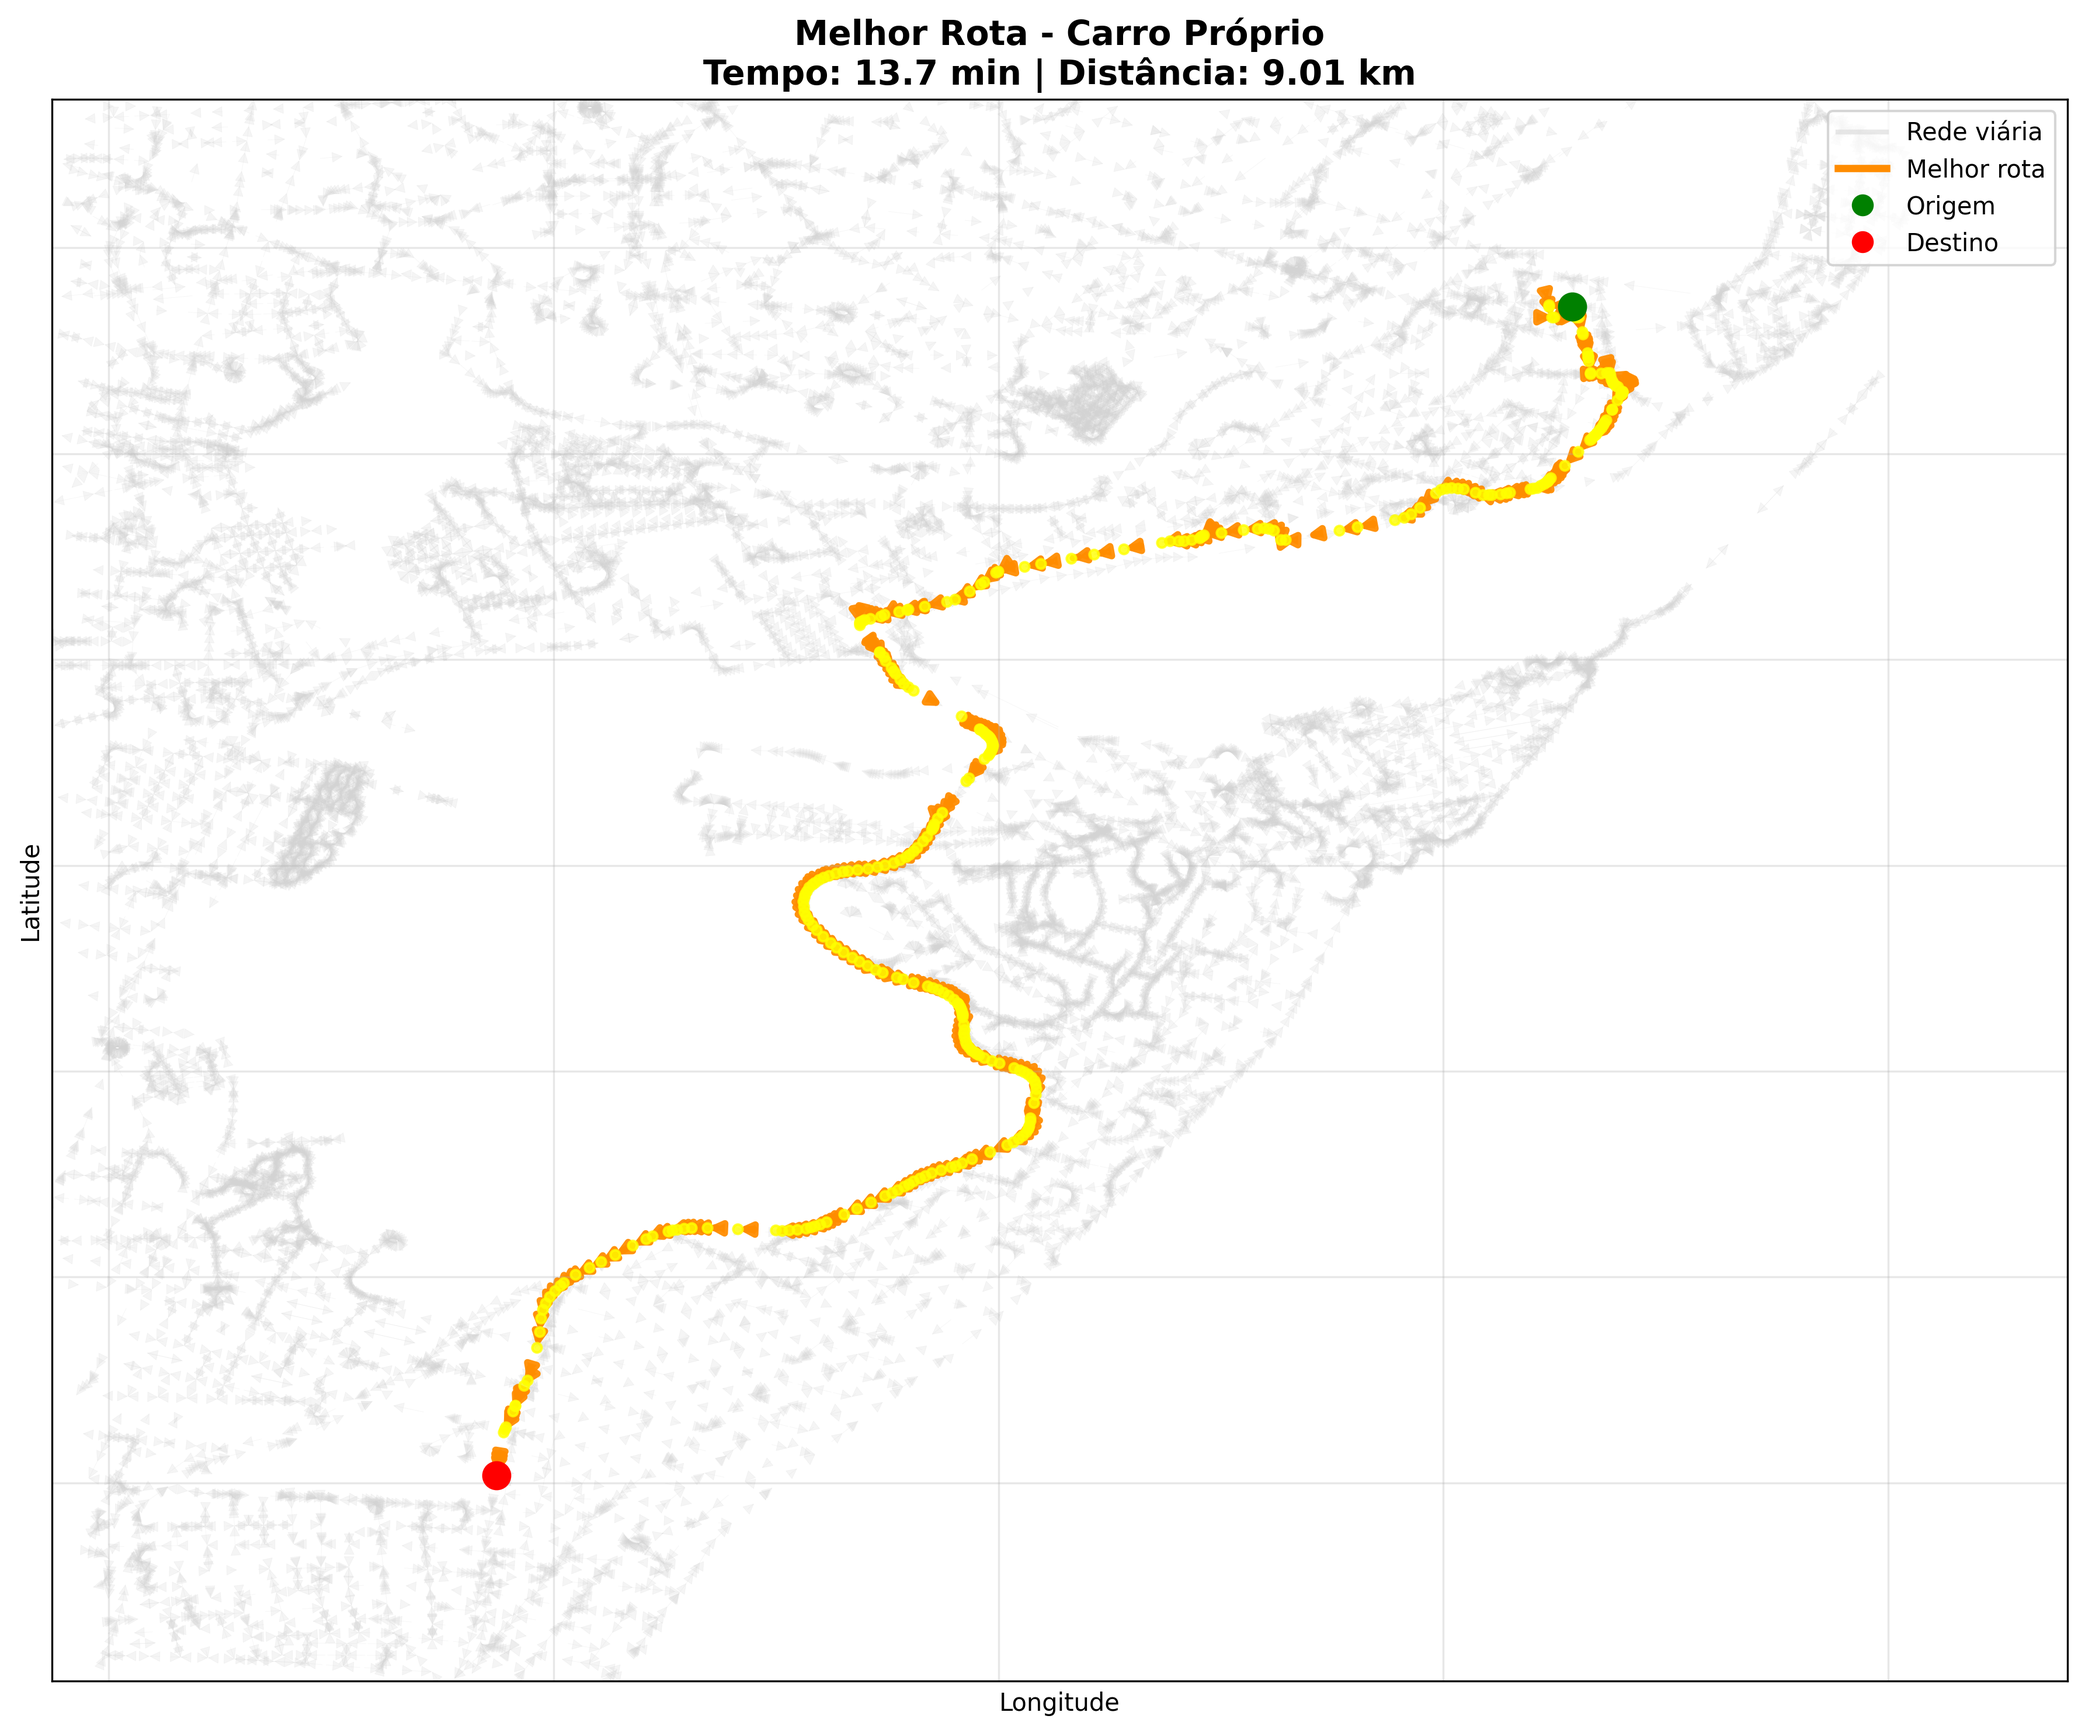
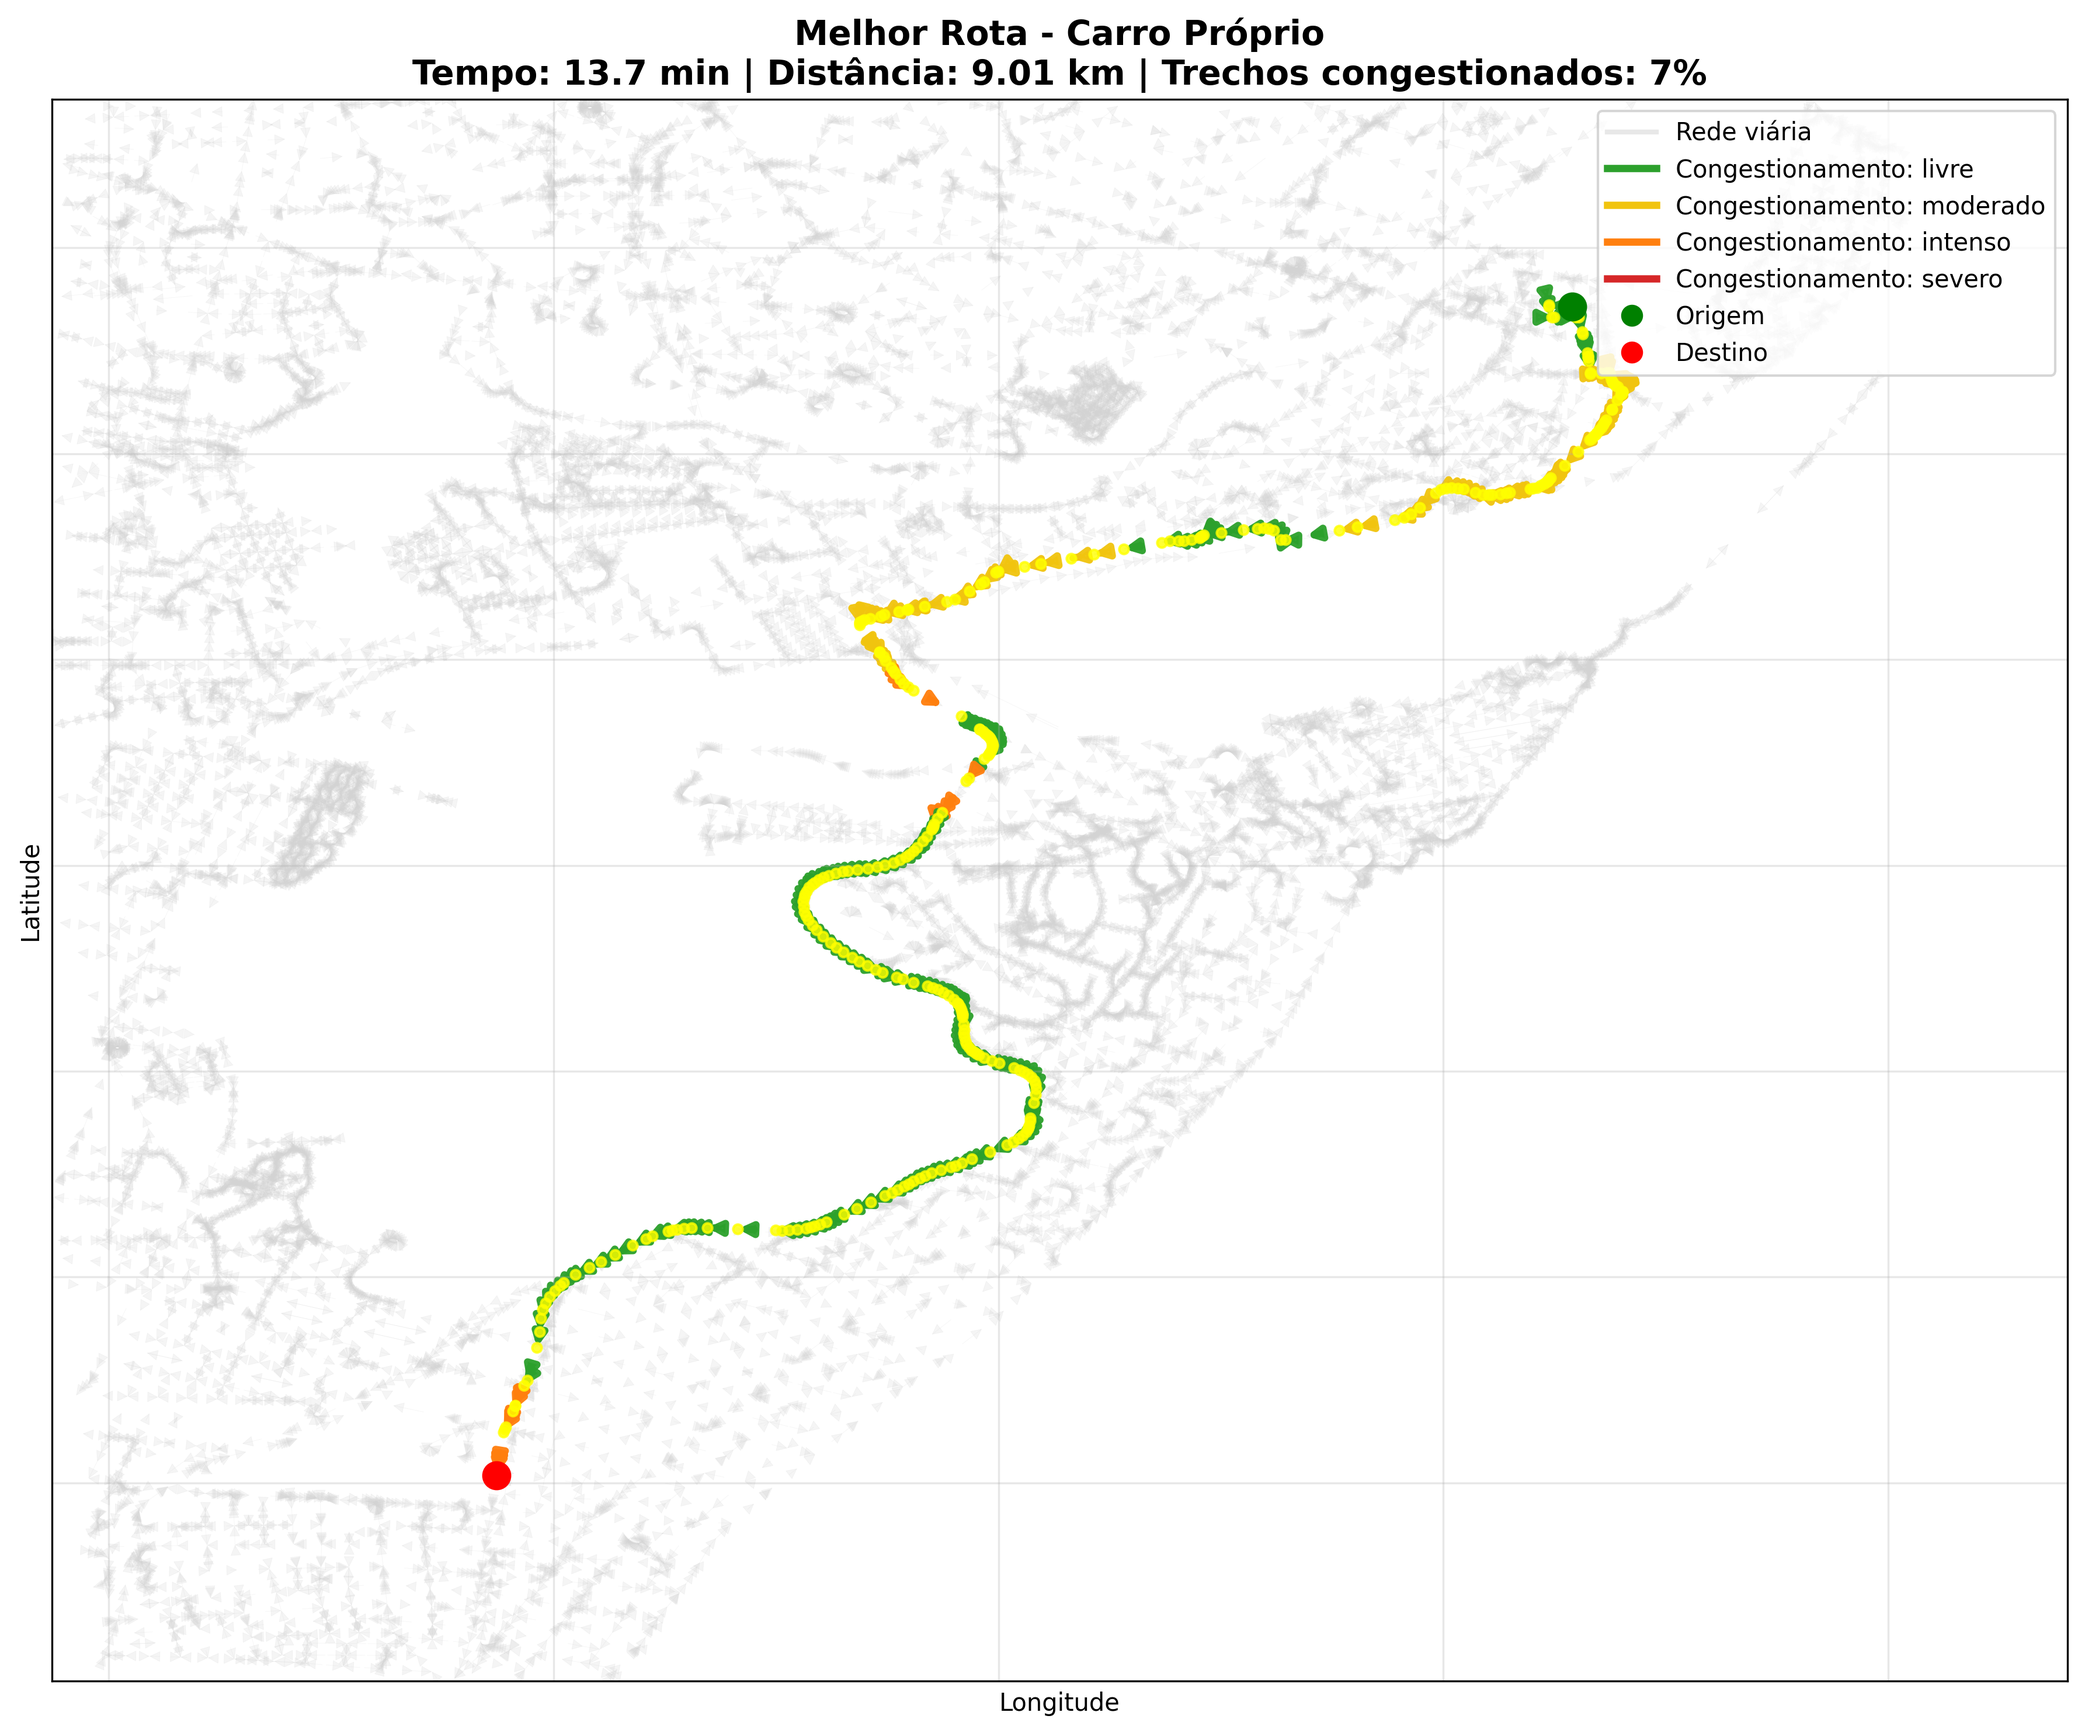
feat: adicionando percentual de congestionamento

diff --git a/graph/graph.py b/graph/graph.py
@@ -19,6 +19,81 @@ from best_routes import build_road_graph, generate_three_best_routes
 GRAPH_PATH = BASE_DIR / 'transport_graph.gpickle'
 BEST_ROUTES_PATH = BASE_DIR / 'dados_coletados' / 'best_routes.json'
 
+CONGESTION_COLORS = {
+    'livre': '#2ca02c',
+    'moderado': '#f1c40f',
+    'intenso': '#ff7f0e',
+    'severo': '#d62728',
+}
+
+
+def _edge_speed_ms(edge_attrs):
+    dist = edge_attrs.get('distance_m', 0.0)
+    time_s = edge_attrs.get('time_s', 0.0)
+    if not time_s or time_s <= 0:
+        return 0.0
+    return dist / time_s
+
+
+def _road_free_flow_speed_ms(edge_attrs, road_modal):
+    road_type = str(edge_attrs.get('road_type', '')).lower()
+    base_by_type = {
+        'trunk': 16.7,
+        'primary': 13.9,
+        'secondary': 11.1,
+        'tertiary': 9.7,
+        'residential': 8.3,
+    }
+    speed = base_by_type.get(road_type, 10.0)
+    if road_modal == 'moto':
+        speed *= 1.1
+    return speed
+
+
+def _public_free_flow_speed_ms(edge_attrs):
+    mode = edge_attrs.get('mode', 'unknown')
+    return {
+        'walk': 1.4,
+        'bus': 8.0,
+        'rail': 15.0,
+    }.get(mode, 5.0)
+
+
+def _congestion_level(speed_ratio):
+    # speed_ratio = velocidade observada / velocidade livre
+    if speed_ratio >= 0.85:
+        return 'livre'
+    if speed_ratio >= 0.65:
+        return 'moderado'
+    if speed_ratio >= 0.40:
+        return 'intenso'
+    return 'severo'
+
+
+def _road_edge_congestion(edge_attrs, road_modal):
+    observed = _edge_speed_ms(edge_attrs)
+    free_flow = _road_free_flow_speed_ms(edge_attrs, road_modal)
+    ratio = observed / free_flow if free_flow > 0 else 0.0
+    ratio = max(0.0, min(1.2, ratio))
+    level = _congestion_level(ratio)
+    return level, CONGESTION_COLORS[level], ratio
+
+
+def _public_edge_congestion(edge_attrs):
+    observed = _edge_speed_ms(edge_attrs)
+    free_flow = _public_free_flow_speed_ms(edge_attrs)
+    ratio = observed / free_flow if free_flow > 0 else 0.0
+    ratio = max(0.0, min(1.2, ratio))
+    level = _congestion_level(ratio)
+    return level, CONGESTION_COLORS[level], ratio
+
+
+def _congestion_share(levels):
+    if not levels:
+        return 0.0
+    congested = sum(1 for lv in levels if lv in ('intenso', 'severo'))
+    return 100.0 * congested / len(levels)
+
 def load_graph():
     """Carrega o grafo multimodal salvo em transport_graph.gpickle."""
     with open(GRAPH_PATH, 'rb') as f:
@@ -128,25 +203,36 @@ def _plot_public_route(best_routes):
     nx.draw_networkx_edges(G, pos, edge_color='lightgray', width=0.25, alpha=0.25)
     nx.draw_networkx_nodes(G, pos, node_color='lightgray', node_size=8, alpha=0.25)
 
-    # Arestas da rota com cor por modal
+    # Arestas da rota com cor por congestionamento e estilo por modal
+    congestion_levels = []
     for u, v in zip(path, path[1:]):
         if not G.has_edge(u, v):
             continue
         edge_attrs = min(G[u][v].values(), key=lambda x: x.get('time_s', float('inf')))
         mode = edge_attrs.get('mode', 'unknown')
+        level, color, _ = _public_edge_congestion(edge_attrs)
+        congestion_levels.append(level)
         if mode == 'walk':
-            color = 'green'
             width = 2.0
+            style = '--'
         elif mode == 'bus':
-            color = 'blue'
             width = 3.2
+            style = '-'
         elif mode == 'rail':
-            color = 'red'
             width = 3.6
+            style = '-.'
         else:
-            color = 'black'
             width = 2.0
-        nx.draw_networkx_edges(G, pos, edgelist=[(u, v)], edge_color=color, width=width, alpha=0.9)
+            style = '-'
+        nx.draw_networkx_edges(
+            G,
+            pos,
+            edgelist=[(u, v)],
+            edge_color=color,
+            width=width,
+            style=style,
+            alpha=0.95,
+        )
 
     nx.draw_networkx_nodes(G, pos, nodelist=path, node_color='yellow', node_size=35, alpha=0.9)
     nx.draw_networkx_nodes(G, pos, nodelist=[path[0]], node_color='green', node_size=140, alpha=1.0)
@@ -154,7 +240,8 @@ def _plot_public_route(best_routes):
 
     plt.title(
         'Melhor Rota - Transporte Público\n'
-        f"Tempo: {route['time_s'] / 60:.1f} min | Distância: {route['distance_m'] / 1000:.2f} km",
+        f"Tempo: {route['time_s'] / 60:.1f} min | Distância: {route['distance_m'] / 1000:.2f} km"
+        f" | Trechos congestionados: {_congestion_share(congestion_levels):.0f}%",
         fontsize=14,
         fontweight='bold',
     )
@@ -163,9 +250,13 @@ def _plot_public_route(best_routes):
     plt.grid(True, alpha=0.3)
 
     legend_elements = [
-        plt.Line2D([0], [0], color='green', linewidth=2, label='Caminhada'),
-        plt.Line2D([0], [0], color='blue', linewidth=3, label='Ônibus'),
-        plt.Line2D([0], [0], color='red', linewidth=3, label='Metrô'),
+        plt.Line2D([0], [0], color='black', linewidth=2, linestyle='--', label='Caminhada'),
+        plt.Line2D([0], [0], color='black', linewidth=3, linestyle='-', label='Ônibus'),
+        plt.Line2D([0], [0], color='black', linewidth=3, linestyle='-.', label='Metrô'),
+        plt.Line2D([0], [0], color=CONGESTION_COLORS['livre'], linewidth=3, label='Congestionamento: livre'),
+        plt.Line2D([0], [0], color=CONGESTION_COLORS['moderado'], linewidth=3, label='Congestionamento: moderado'),
+        plt.Line2D([0], [0], color=CONGESTION_COLORS['intenso'], linewidth=3, label='Congestionamento: intenso'),
+        plt.Line2D([0], [0], color=CONGESTION_COLORS['severo'], linewidth=3, label='Congestionamento: severo'),
         plt.Line2D([0], [0], marker='o', color='green', linestyle='None', markersize=8, label='Origem'),
         plt.Line2D([0], [0], marker='o', color='red', linestyle='None', markersize=8, label='Destino'),
     ]
@@ -212,10 +303,15 @@ def _plot_road_route(best_routes, modal):
     # Background viario (recorte local)
     nx.draw_networkx_edges(G, pos, edgelist=bg_edges, edge_color='lightgray', width=0.2, alpha=0.22)
 
-    # Rota destacada
+    # Rota destacada com cores de congestionamento por segmento
     route_edges = [(u, v) for u, v in zip(path, path[1:]) if G.has_edge(u, v)]
-    route_color = 'darkorange' if modal == 'carro_proprio' else 'purple'
-    nx.draw_networkx_edges(G, pos, edgelist=route_edges, edge_color=route_color, width=2.8, alpha=0.95)
+    congestion_levels = []
+    for u, v in route_edges:
+        edge_attrs = G[u][v]
+        level, color, _ = _road_edge_congestion(edge_attrs, road_modal=road_modal)
+        congestion_levels.append(level)
+        nx.draw_networkx_edges(G, pos, edgelist=[(u, v)], edge_color=color, width=3.0, alpha=0.96)
+
     nx.draw_networkx_nodes(G, pos, nodelist=path, node_color='yellow', node_size=15, alpha=0.8)
     nx.draw_networkx_nodes(G, pos, nodelist=[path[0]], node_color='green', node_size=120, alpha=1.0)
     nx.draw_networkx_nodes(G, pos, nodelist=[path[-1]], node_color='red', node_size=120, alpha=1.0)
@@ -223,7 +319,8 @@ def _plot_road_route(best_routes, modal):
     titulo_modal = 'Carro Próprio' if modal == 'carro_proprio' else 'Moto'
     plt.title(
         f'Melhor Rota - {titulo_modal}\n'
-        f"Tempo: {route['time_s'] / 60:.1f} min | Distância: {route['distance_m'] / 1000:.2f} km",
+        f"Tempo: {route['time_s'] / 60:.1f} min | Distância: {route['distance_m'] / 1000:.2f} km"
+        f" | Trechos congestionados: {_congestion_share(congestion_levels):.0f}%",
         fontsize=14,
         fontweight='bold',
     )
@@ -235,7 +332,10 @@ def _plot_road_route(best_routes, modal):
 
     legend_elements = [
         plt.Line2D([0], [0], color='lightgray', linewidth=2, alpha=0.5, label='Rede viária'),
-        plt.Line2D([0], [0], color=route_color, linewidth=3, label='Melhor rota'),
+        plt.Line2D([0], [0], color=CONGESTION_COLORS['livre'], linewidth=3, label='Congestionamento: livre'),
+        plt.Line2D([0], [0], color=CONGESTION_COLORS['moderado'], linewidth=3, label='Congestionamento: moderado'),
+        plt.Line2D([0], [0], color=CONGESTION_COLORS['intenso'], linewidth=3, label='Congestionamento: intenso'),
+        plt.Line2D([0], [0], color=CONGESTION_COLORS['severo'], linewidth=3, label='Congestionamento: severo'),
         plt.Line2D([0], [0], marker='o', color='green', linestyle='None', markersize=8, label='Origem'),
         plt.Line2D([0], [0], marker='o', color='red', linestyle='None', markersize=8, label='Destino'),
     ]
